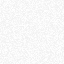
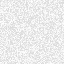
Zone sûre iOS, grain plus marqué, CMS branché sur le dépôt
- L'en-tête remonte sous la barre d'état iOS : sans viewport-fit=cover ni
  env(safe-area-inset-top), le titre défilait par-dessus elle.
- Grain régénéré (opacité par pixel 14 → 38) et remonté à 0,6 / 0,5.
- « Selected work » perd son compteur.
- Decap CMS pointe sur lnyssen/ln.be, champs et libellés en français.
- Deux fonctions serverless portent l'authentification GitHub, le dépôt
  étant privé (portée « repo »).

diff --git a/api/callback.js b/api/callback.js
@@ -1,0 +1,54 @@
+// Retour de GitHub : on échange le code contre un jeton, puis on le repasse à
+// Decap par postMessage — la fenêtre surgissante se referme ensuite seule.
+export default async function handler(request, response) {
+  const clientId = process.env.OAUTH_CLIENT_ID;
+  const clientSecret = process.env.OAUTH_CLIENT_SECRET;
+  const { code } = request.query;
+
+  const send = (status, content) =>
+    response.status(status).setHeader('Content-Type', 'text/html; charset=utf-8').send(content);
+
+  if (!clientId || !clientSecret) {
+    return send(500, 'OAUTH_CLIENT_ID ou OAUTH_CLIENT_SECRET manquant côté Vercel.');
+  }
+
+  if (!code) {
+    return send(400, 'Code d’autorisation absent.');
+  }
+
+  try {
+    const tokenResponse = await fetch('https://github.com/login/oauth/access_token', {
+      method: 'POST',
+      headers: { 'Content-Type': 'application/json', Accept: 'application/json' },
+      body: JSON.stringify({ client_id: clientId, client_secret: clientSecret, code }),
+    });
+
+    const data = await tokenResponse.json();
+
+    if (data.error || !data.access_token) {
+      return send(401, `GitHub a refusé l’échange : ${data.error_description ?? data.error}`);
+    }
+
+    // Decap attend très précisément ce format de message.
+    const payload = JSON.stringify({ token: data.access_token, provider: 'github' });
+
+    return send(
+      200,
+      `<!doctype html><meta charset="utf-8"><title>Connexion…</title>
+<script>
+  (function () {
+    function post(event) {
+      if (!event.data || event.data !== 'authorizing:github') return;
+      window.removeEventListener('message', post, false);
+      window.opener.postMessage('authorization:github:success:${payload}', event.origin);
+    }
+    window.addEventListener('message', post, false);
+    window.opener.postMessage('authorizing:github', '*');
+  })();
+</script>
+<p>Connexion établie, cette fenêtre va se fermer.</p>`
+    );
+  } catch (error) {
+    return send(500, `Échec de l’échange du jeton : ${error.message}`);
+  }
+}

diff --git a/src/styles/swiss.css b/src/styles/swiss.css
@@ -12,7 +12,7 @@
   --ink-soft: #6b6b6b;
   --rule: #141414;
   --accent: #7b58e8;
-  --grain: 0.55;
+  --grain: 0.6;
 }
 
 .swiss[data-swiss-theme='dark'] {
@@ -24,7 +24,7 @@
      lavande, l'autre violet du site, qui remonte à 7,7:1. */
   --accent: #9e9eff;
   /* Le bruit se voit davantage sur l'encre : on le retient un peu. */
-  --grain: 0.4;
+  --grain: 0.5;
 }
 
 @layer base {
@@ -36,7 +36,7 @@
 
   /* L'en-tête est collant : l'ancre s'arrête en dessous, pas sous lui. */
   .swiss [id] {
-    scroll-margin-top: 72px;
+    scroll-margin-top: calc(72px + env(safe-area-inset-top));
   }
 
   @media (prefers-reduced-motion: reduce) {
@@ -180,14 +180,14 @@
   }
 
   .swiss-shell {
-    padding-left: 20px;
-    padding-right: 20px;
+    padding-left: max(20px, env(safe-area-inset-left));
+    padding-right: max(20px, env(safe-area-inset-right));
   }
 
   @media (min-width: 768px) {
     .swiss-shell {
-      padding-left: 40px;
-      padding-right: 40px;
+      padding-left: max(40px, env(safe-area-inset-left));
+      padding-right: max(40px, env(safe-area-inset-right));
     }
   }
 

diff --git a/api/auth.js b/api/auth.js
@@ -1,0 +1,22 @@
+// Début du parcours OAuth : on envoie l'éditeur chez GitHub.
+// Decap appelle cette adresse quand on clique « Login with GitHub ».
+export default function handler(request, response) {
+  const clientId = process.env.OAUTH_CLIENT_ID;
+
+  if (!clientId) {
+    return response
+      .status(500)
+      .send("OAUTH_CLIENT_ID manquant dans les variables d'environnement Vercel.");
+  }
+
+  const host = request.headers['x-forwarded-host'] ?? request.headers.host;
+  const proto = request.headers['x-forwarded-proto'] ?? 'https';
+
+  const url = new URL('https://github.com/login/oauth/authorize');
+  url.searchParams.set('client_id', clientId);
+  url.searchParams.set('redirect_uri', `${proto}://${host}/api/callback`);
+  // `repo` est nécessaire : le dépôt est privé.
+  url.searchParams.set('scope', 'repo,user');
+
+  response.redirect(302, url.toString());
+}

diff --git a/public/admin/index.html b/public/admin/index.html
@@ -1,11 +1,11 @@
 <!doctype html>
-<html>
+<html lang="fr">
   <head>
     <meta charset="utf-8" />
     <meta name="viewport" content="width=device-width, initial-scale=1" />
-    <title>Content Manager</title>
+    <title>Contenu — Laurent Nyssen</title>
   </head>
   <body>
-    <script src="https://unpkg.com/decap-cms@^3.0.0/dist/decap-cms.js"></script>
+    <script src="https://unpkg.com/decap-cms@^3.8.0/dist/decap-cms.js"></script>
   </body>
 </html>
